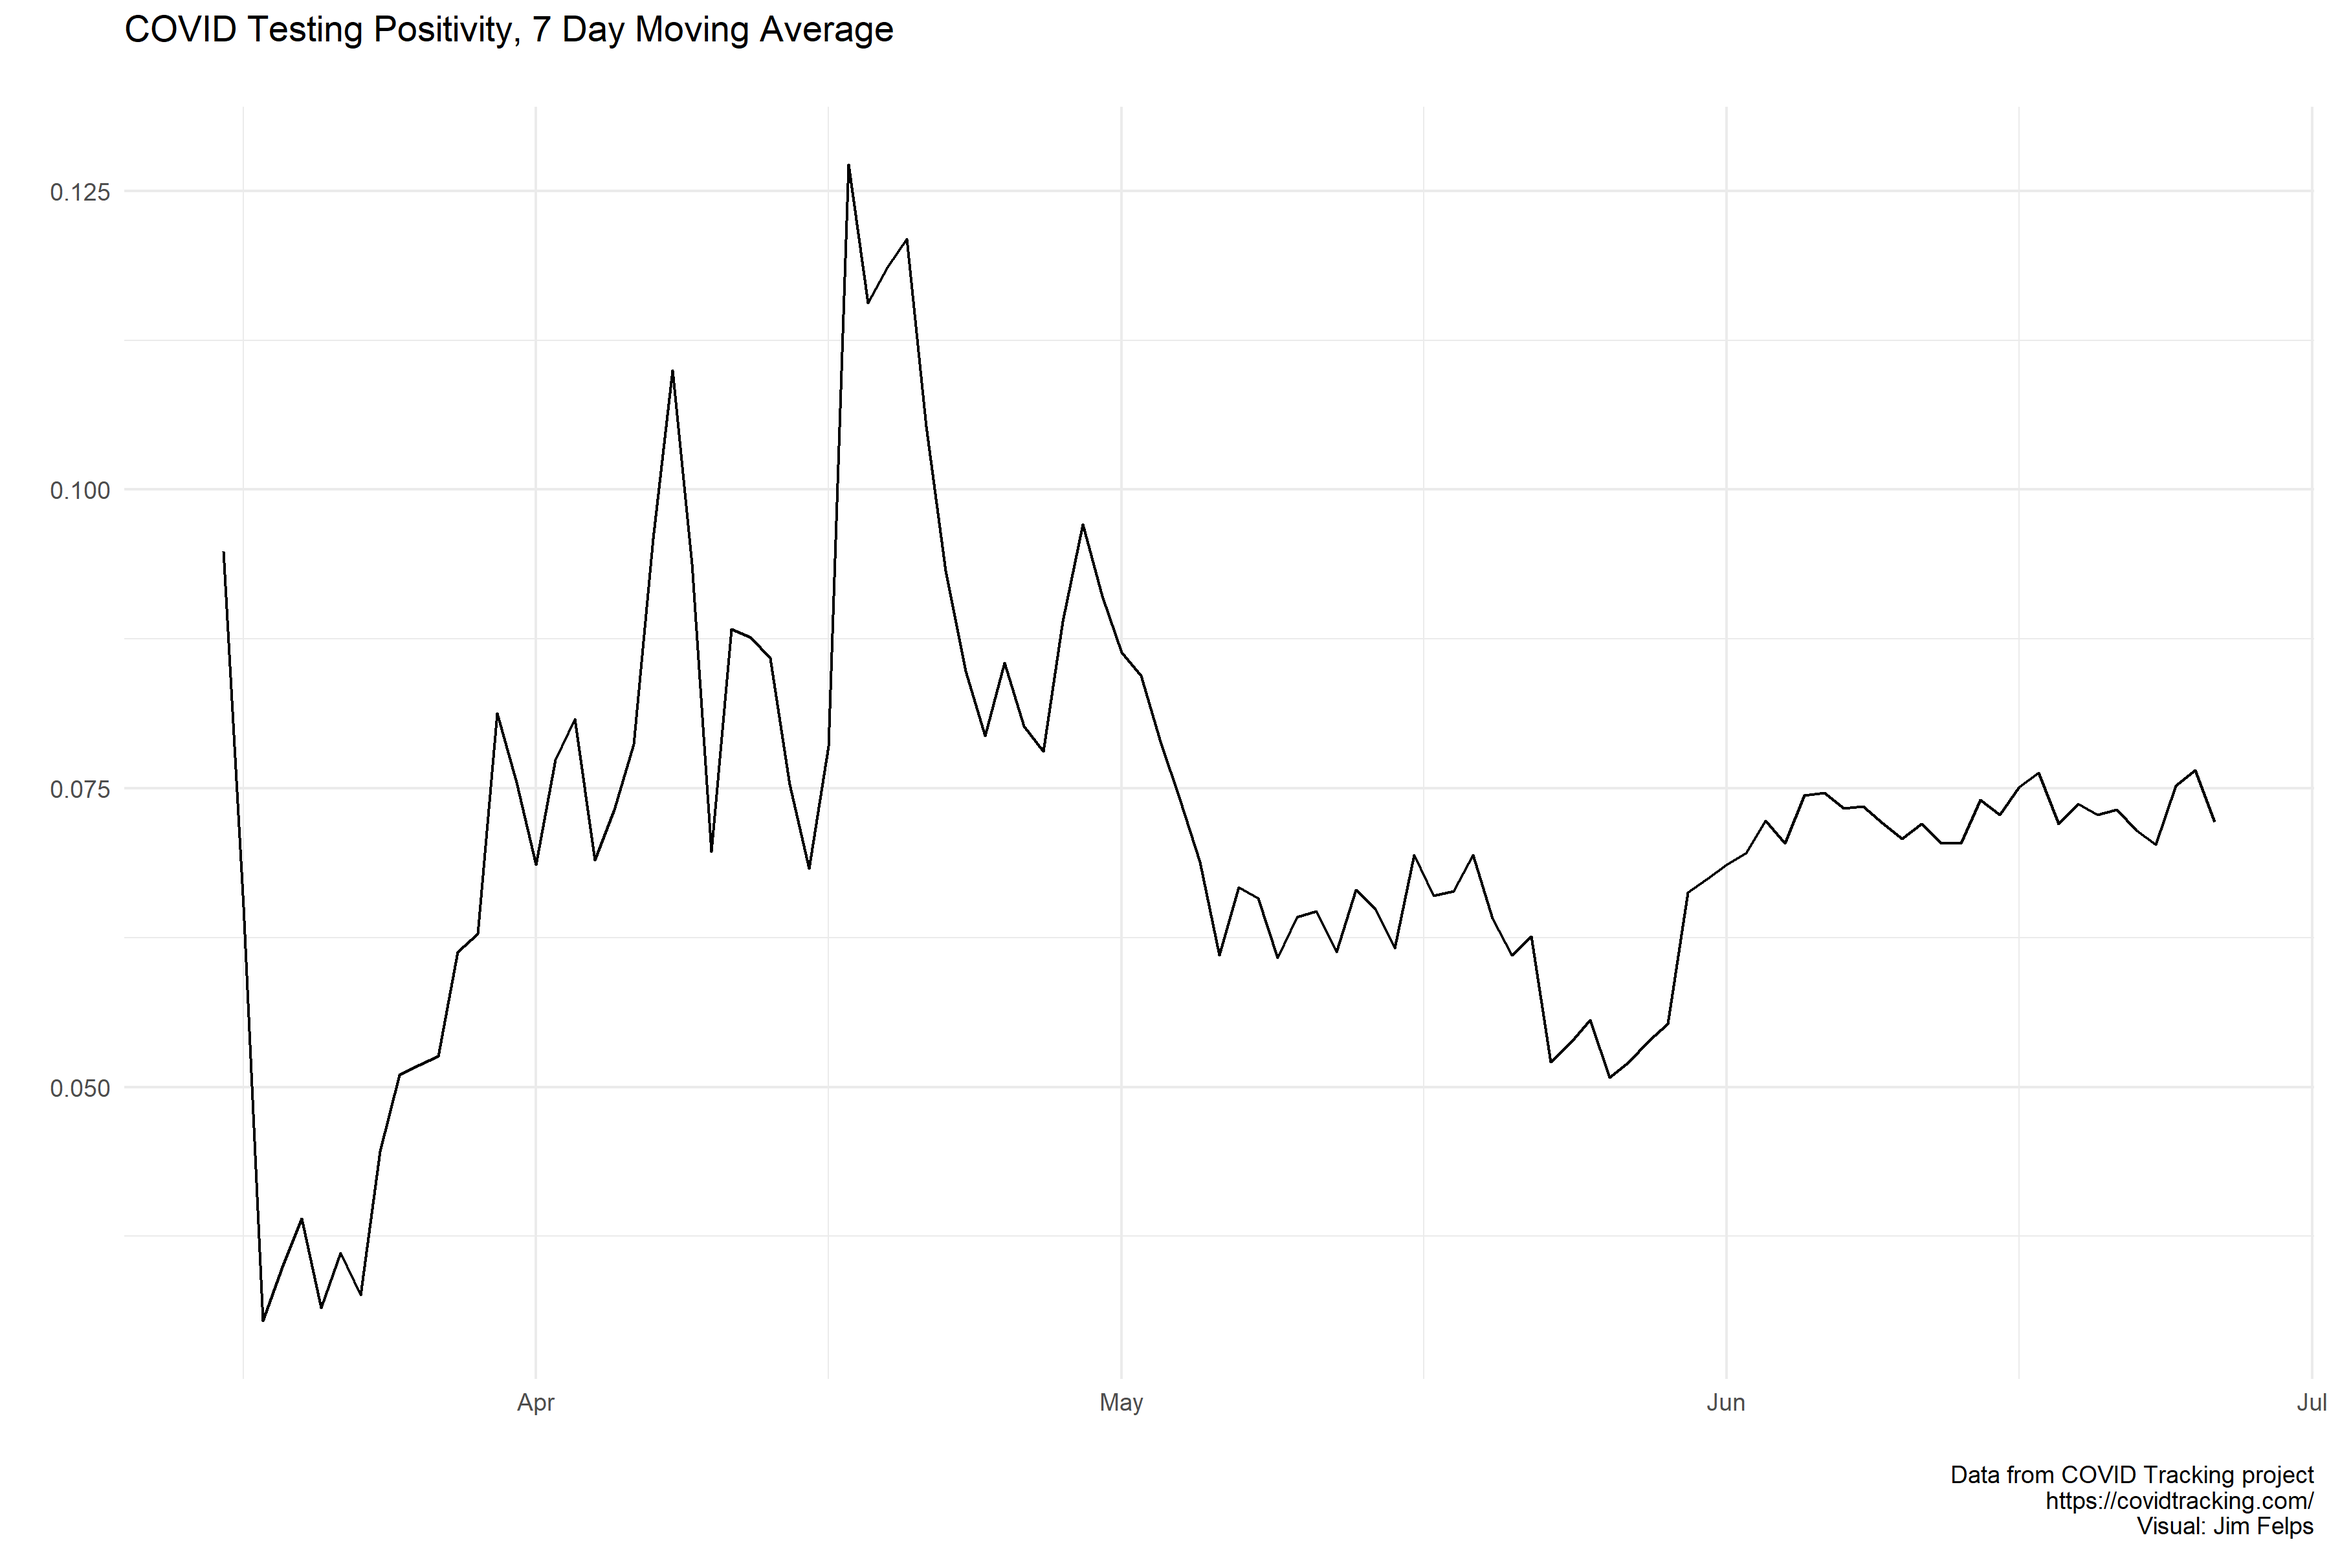
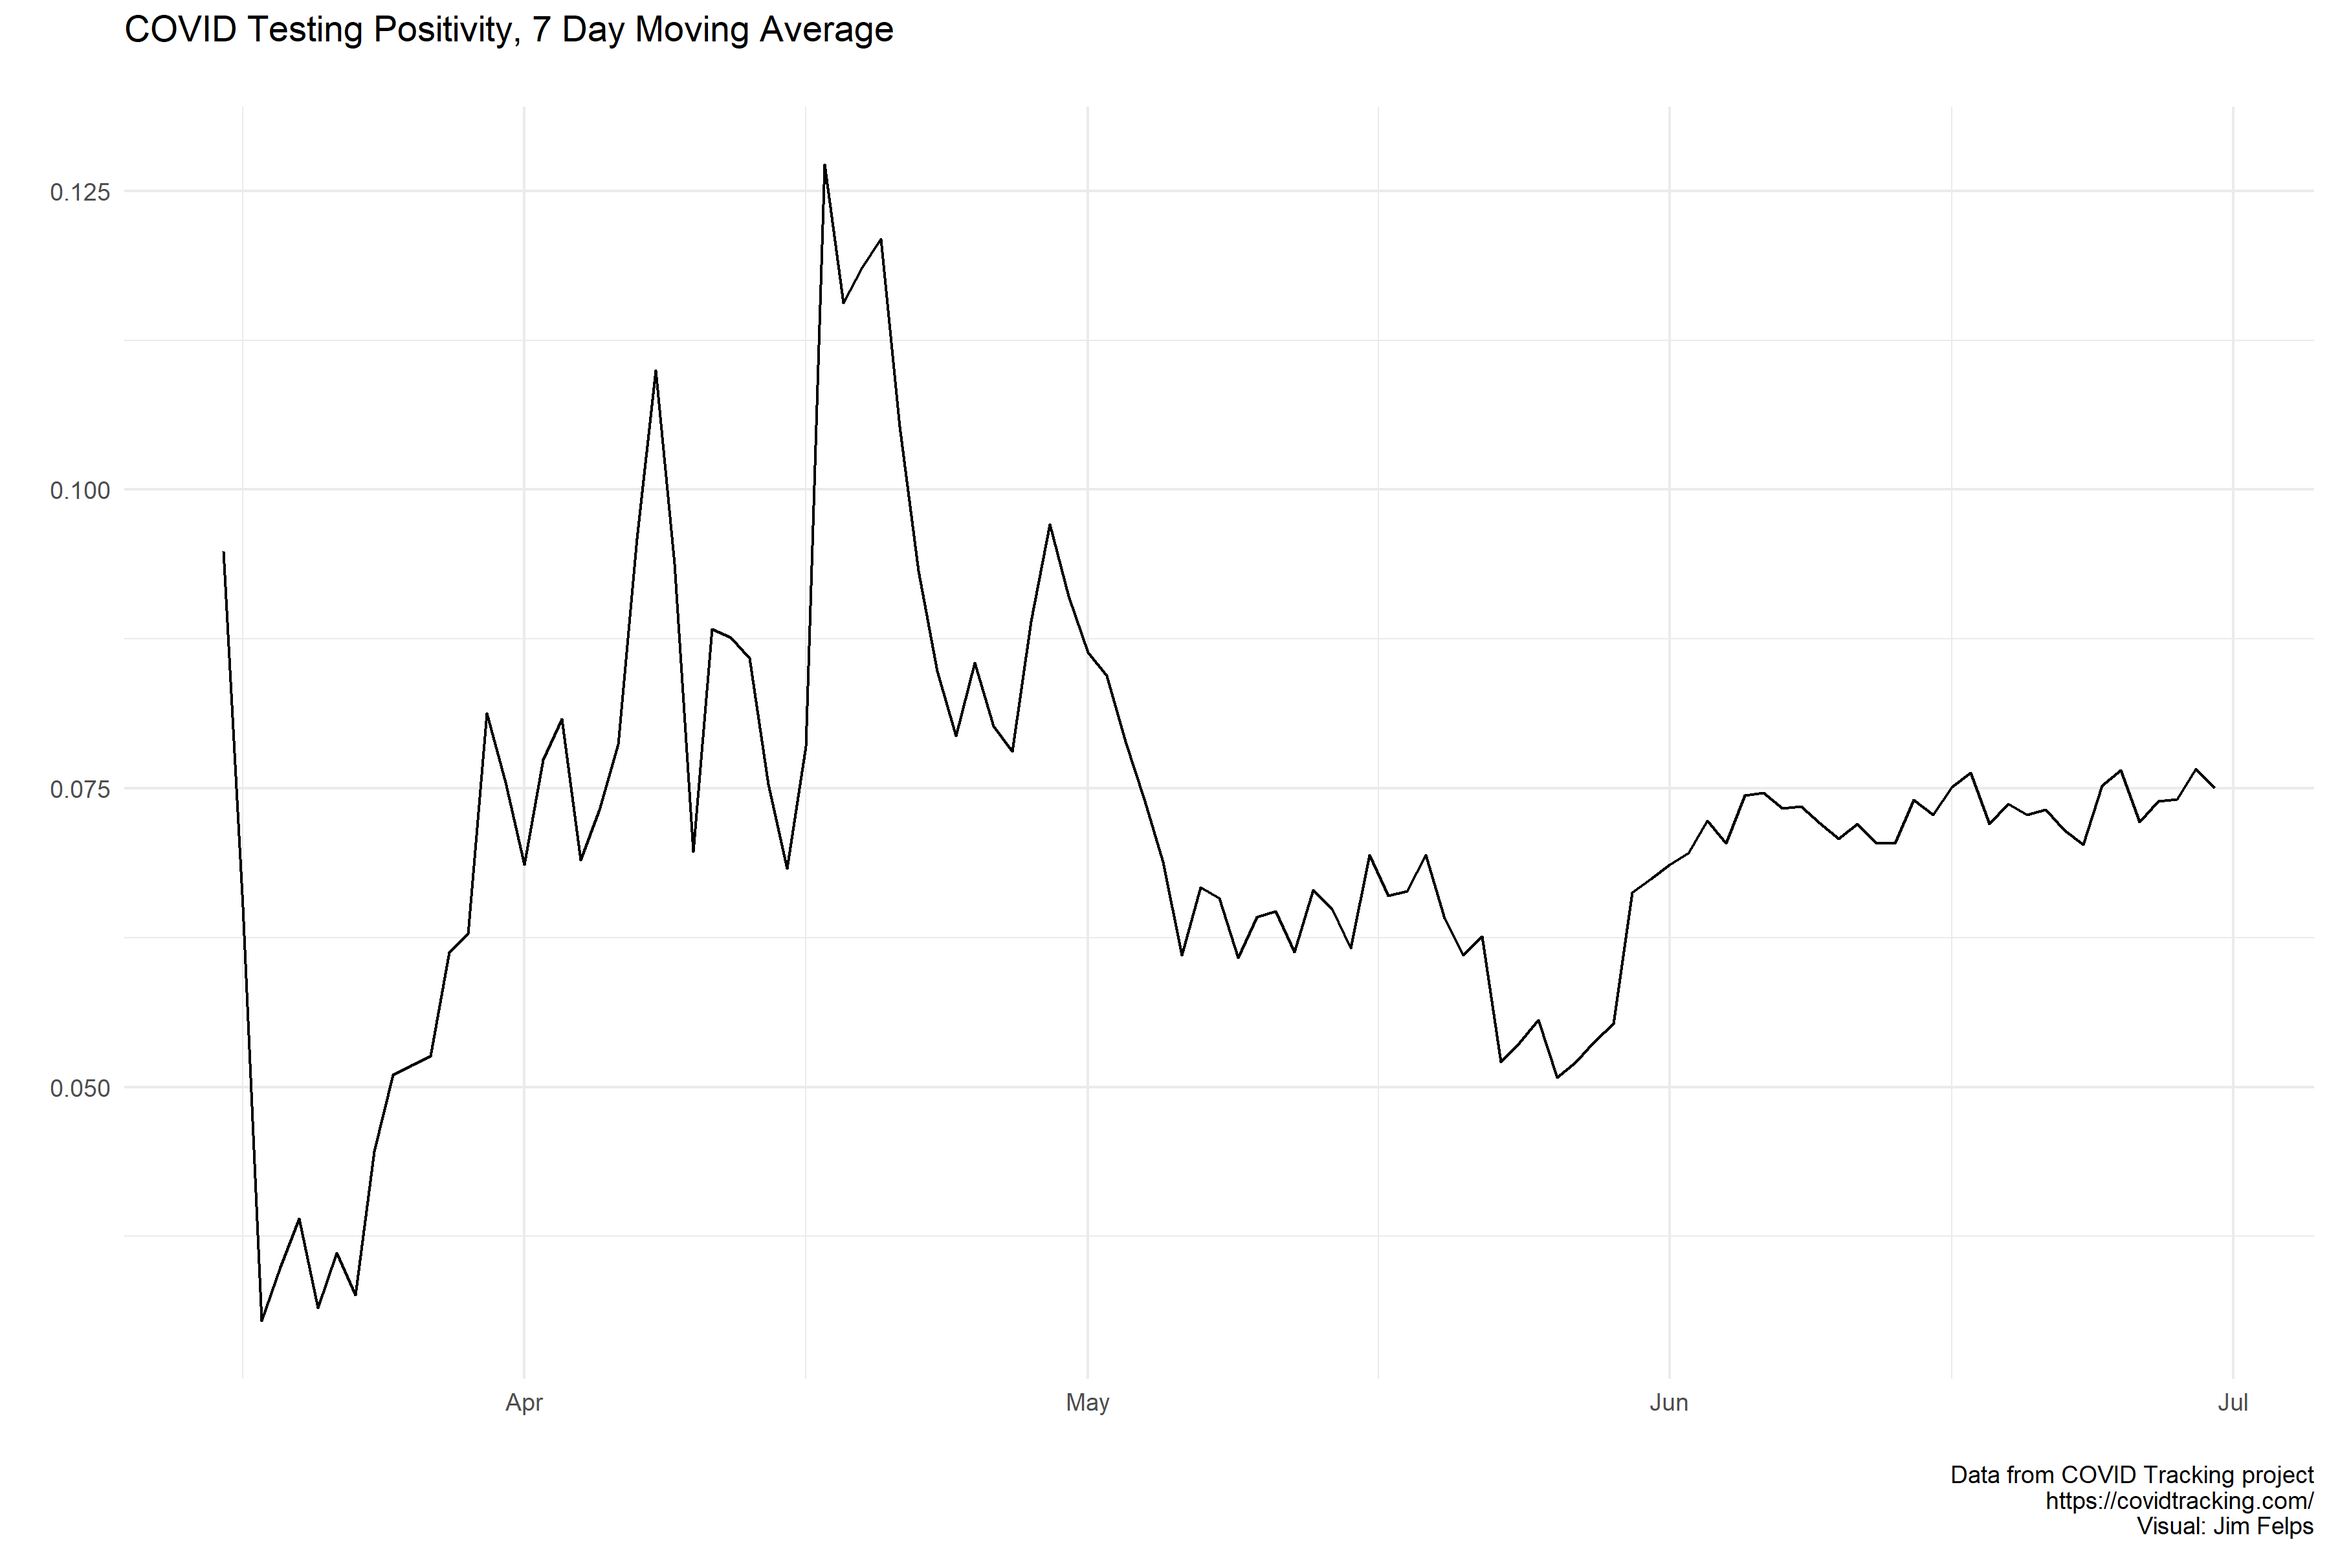
Updated 2020-07-01

diff --git a/README.md b/README.md
@@ -1,4 +1,4 @@
-Updated Last: 2020-06-30
+Updated Last: 2020-07-01
 
 # Missouri
 
